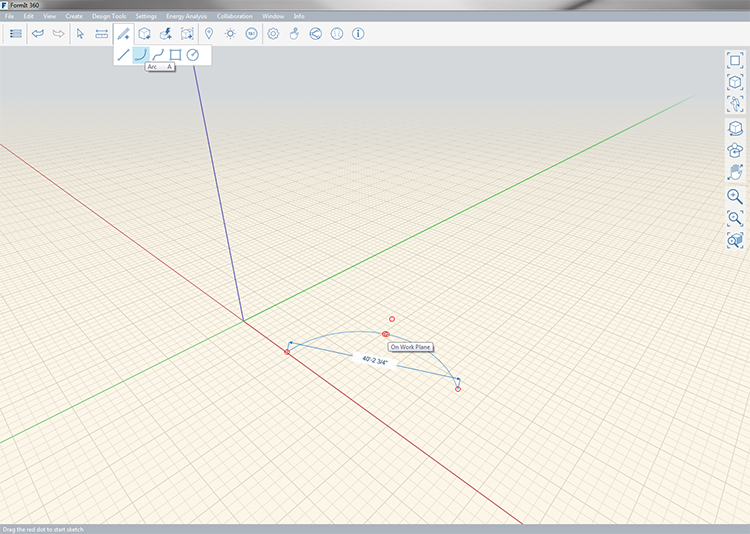
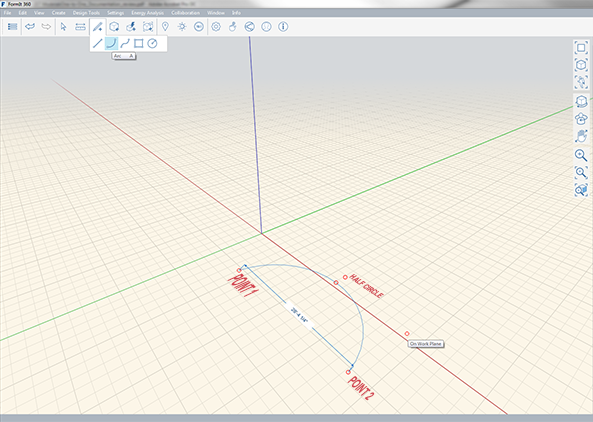
content added

diff --git a/tool-library/rectangle-tool.md b/tool-library/rectangle-tool.md
@@ -1,11 +1,11 @@
-### Line Tool
+### Rectangle Tool
 
 ---
-> Draw a lines to divide faces and construct geometry.
+> Draws a rectangle that becomes a face when opteration is complete. The resulting face can be extruded into a volume. 
 
 ---
 
-A rectangle can be draw on all the X, Y and Z axis. When you're snapped to an axis a colored line will extend beyond one edge of the rectangle you are drawing. You can see the length of one side of the rectangle as you draw; to manually a specfic length press **tab** and enter that length. 
+A rectangle can be draw on all the X, Y and Z axis. When you're snapped to an axis a colored line will extend beyond one edge of the rectangle as you are drawing. You can see the length of one side of the rectangle as you draw; to manually a specify a length press **tab** and enter that length.
 
 - X = Red
 - y = Green

diff --git a/tool-library/measure-angle-tool.md b/tool-library/measure-angle-tool.md
@@ -1,0 +1,19 @@
+### Measure Angle Tool
+
+---
+> The measure angle tool is located on the [Action Tool Bar](../formit-introduction/tool-bars.md).
+
+---
+
+The measure angel tool is used to measure angles between vertices, edges, faces, and volumes. You can also use the measure to drive drive dimensions of geometry.
+
+- Select measure tool from the Action Tool Bar or short key **M A** and and select starting point.
+![](images/measure angle 1.png)
+- Click and drag handle to the starting vertex.
+![](images/measure angle 2.png)
+- Use arrows to measure the angle between one point to another. 
+![](images/measure angle 3.png)
+- To change the geometry click on face/edge to change and enter a new angle by clicking on the provided angle. 
+![](images/measure angle 4.png)
+- **Final Result:**
+![](images/measure angle 5.png)

diff --git a/tool-library/measure-tool.md b/tool-library/measure-tool.md
@@ -1,0 +1,14 @@
+### Measure Tool
+
+---
+> The measure tool is located on the [Action Tool Bar](../formit-introduction/tool-bars.md).
+
+---
+
+The measure tool is used to measure geometry that has been previously modeled. You can also use the measure to drive drive dimensions of geometry.
+
+1. Select the measure tool and measure between two points.
+2. Select face or edge you want to change the length of then click the number and imput a new length.
+![](images/measure 1.png)
+![](images/measure 2.png)
+![](images/measure 3.png)

diff --git a/tool-library/spline-tool.md b/tool-library/spline-tool.md
@@ -1,0 +1,14 @@
+### Spline Tool
+
+---
+> Spline tool allows you to create organic sketches in space or on other objects.
+
+---
+
+A spline is drawn from at least 3 interpolated points. The connected geometry in simplified creating a smooth and organic curve between the specified points. 
+
+You can see the length of the line as you draw; to manually specify a length press **tab**. Splines can also close on themselves creating a face.
+
+![](images/spline 1.png)
+
+![](images/spline 2.png)

diff --git a/tool-library/circle-tool.md b/tool-library/circle-tool.md
@@ -1,0 +1,16 @@
+### Circle Tool
+
+---
+> Draw a circle in space or on another object.
+
+---
+
+The first step in drawing a circle is choosing the center point and then specify the radius of the circle. When complete the circle will become a face.  
+
+
+
+![](images/circle 1.png)
+
+![](images/circle 2.png)
+
+![](images/circle 3.png)

diff --git a/tool-library/arc-tool.md b/tool-library/arc-tool.md
@@ -14,3 +14,5 @@ You can see the length between the first point and the second point as you're de
 
 ![](images/arc tool 2.png)
 
+After drawing the arc You can make a face by then using the [line tool](../tool-library/line-tool.md) to connected point 1 and point 2.
+
